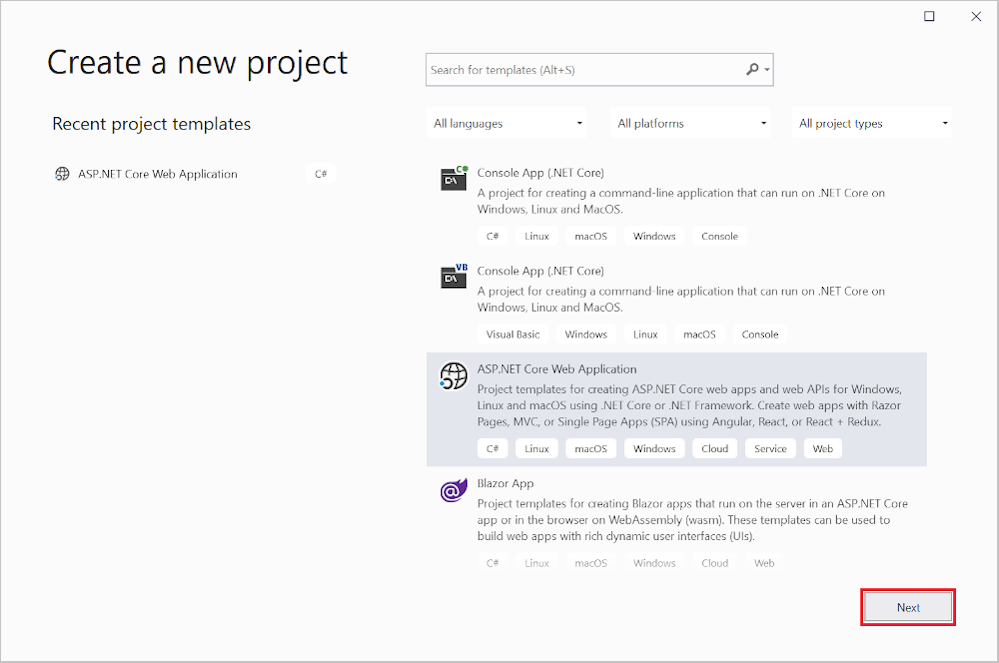
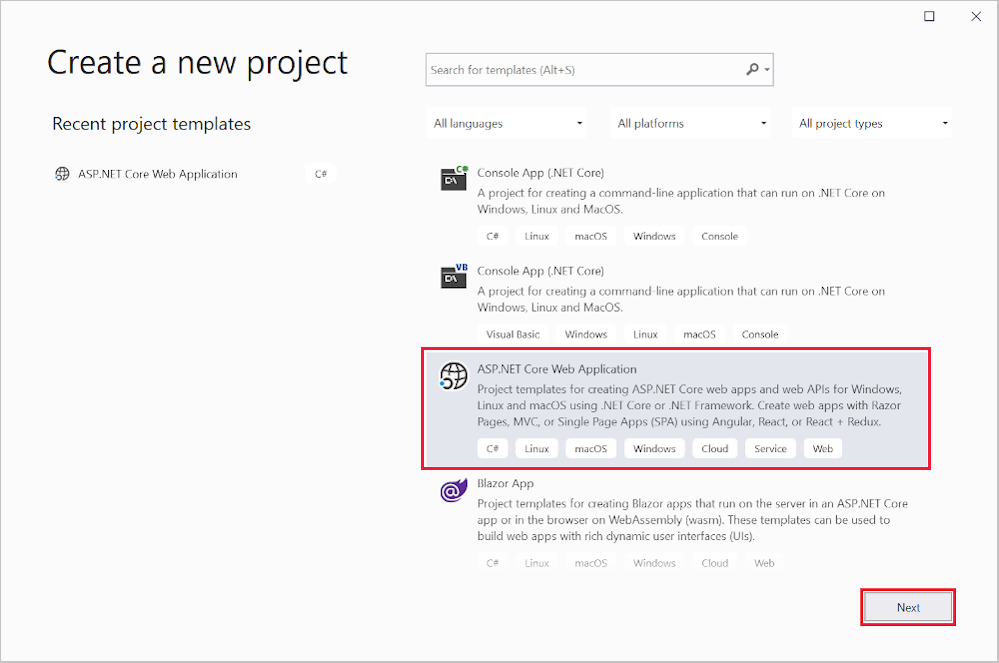
Razor Pages Series: minor fix link and config screen. (#20439)
* Razor Pages Series: minor fix link and config screen.

* patch: Updated link to new core version and config.png to better highlight.

* patch: validation.md: removed xref from cross repo link

* Added highlight to npx.png for create a new project section

* added highlights to np.png

Changed region(s): [[0.4034, 0.5128, 0.9309, 0.543], [0.4344, 0.6938, 0.9309, 0.724]]

diff --git a/aspnetcore/tutorials/razor-pages/validation.md b/aspnetcore/tutorials/razor-pages/validation.md
@@ -231,7 +231,7 @@ Migrations are not required for SQLite.
 
 ### Publish to Azure
 
-For information on deploying to Azure, see [Tutorial: Build an ASP.NET Core app in Azure with SQL Database](/azure/app-service/app-service-web-tutorial-dotnetcore-sqldb).
+For information on deploying to Azure, see [Tutorial: Build an ASP.NET Core app in Azure with SQL Database](/azure/app-service/tutorial-dotnetcore-sqldb-app).
 
 Thanks for completing this introduction to Razor Pages. [Get started with Razor Pages and EF Core](xref:data/ef-rp/intro) is an excellent follow up to this tutorial.
 
